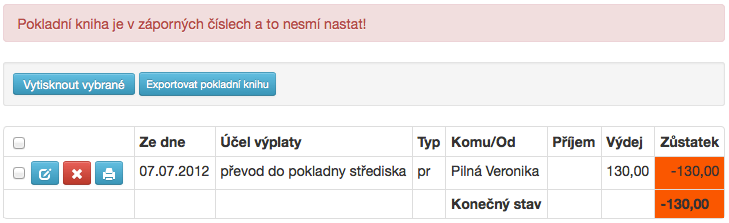
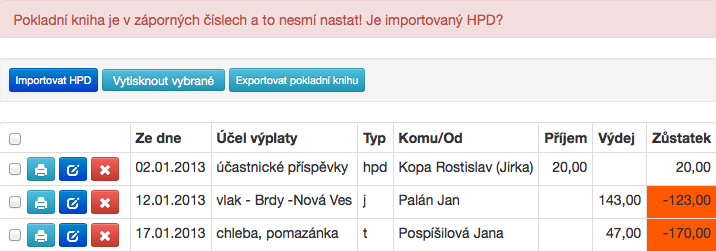
predeleni navodu na obecnou akci (nove funkce a tlacitka)

diff --git a/app/model/Chit/ChitService.php b/app/model/Chit/ChitService.php
@@ -216,7 +216,7 @@ class ChitService extends MutableBaseService {
         $cacheId = __FUNCTION__;
         if (!($res = $this->load($cacheId))) {
             foreach ($this->table->getCategoriesAll("in") as $c) {
-                if ($c->short == "pp") {
+                if ($c->short == "hpd") {
                     $res = $c->id;
                     break;
                 }
